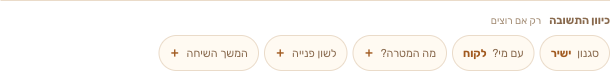
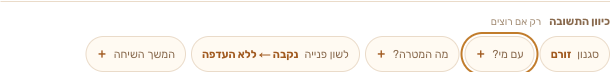
Fit mobile composer in viewport and dismiss direction dialog outside

diff --git a/app/conversation-experience.css b/app/conversation-experience.css
@@ -223,3 +223,35 @@
     grid-template-columns: repeat(4, minmax(0, 1fr));
   }
 }
+
+/* Keep the incoming composer and its action within a small phone viewport. */
+@media (max-width: 639px) {
+  .sb-experience .sb-heading-block { padding: 10px 0 2px; }
+  .sb-experience .sb-heading-block .sb-eyebrow,
+  .sb-experience .sb-heading-description { display: none; }
+  .sb-experience .sb-heading-block h1 { margin: 0; font-size: 28px; line-height: 1.3; letter-spacing: -1px; }
+  .sb-experience .sb-heading-block h1 > span { display: inline; }
+  .sb-experience .sb-compose-panel { padding: 12px; border-radius: 18px; }
+  .sb-experience .sb-compose-mode { padding-bottom: 8px; }
+  .sb-experience .sb-compose-panel > .space-y-4 > :not(:last-child) { margin-block-end: 10px; }
+  .sb-experience .sb-input-zone > :not(:last-child) { margin-block-end: 6px; }
+  .sb-experience .sb-message-input { min-height: 96px; height: 96px; }
+  .sb-experience .sb-inline-examples { gap: 4px; }
+  .sb-experience .sb-inline-examples > span { display: none; }
+  .sb-experience .sb-inline-examples > button { min-height: 36px; padding: 6px 8px; }
+  .sb-experience .sb-direction-tabs button { min-height: 40px; }
+}
+
+@media (max-width: 359px) {
+  .sb-experience .sb-heading-block h1 { font-size: 24px; }
+  .sb-experience .sb-input-zone > :not(:last-child) { margin-block-end: 4px; }
+  .sb-experience .sb-input-zone > .sb-status { font-size: 10px; }
+  .sb-experience .sb-direction-tabs { display: grid; grid-template-columns: repeat(3, minmax(0, 1fr)); gap: 4px; }
+  .sb-experience .sb-direction-tabs button { padding: 4px 6px; gap: 3px; min-width: 0; font-size: 10px; }
+  .sb-experience .sb-direction-step-label { overflow: hidden; text-overflow: ellipsis; white-space: nowrap; }
+  .sb-experience .sb-direction-step-value { max-width: 35px; }
+}
+@media (max-width: 639px) and (max-height: 700px) {
+  .sb-experience .sb-heading-block { display: none; }
+  .sb-experience .sb-compose-panel .sb-inline-examples { display: none; }
+}

diff --git a/components/reply-direction-controls.tsx b/components/reply-direction-controls.tsx
@@ -81,7 +81,11 @@ export function ReplyDirectionControls(props: ReplyDirectionControlsProps) {
           </button>
         ))}
       </div>
-      <dialog ref={dialog} id="reply-direction-panel" className="sb-direction-dialog" aria-label="בחירת כיוון התשובה" onCancel={() => setSelectedField(null)} onClose={() => setSelectedField(null)}>
+      <dialog ref={dialog} id="reply-direction-panel" className="sb-direction-dialog" aria-label="בחירת כיוון התשובה" onClick={(event) => {
+        if (event.target !== event.currentTarget) return;
+        const rect = event.currentTarget.getBoundingClientRect();
+        if (event.clientX < rect.left || event.clientX > rect.right || event.clientY < rect.top || event.clientY > rect.bottom) setSelectedField(null);
+      }} onCancel={() => setSelectedField(null)} onClose={() => setSelectedField(null)}>
         <div className="sb-direction-dialog-top"><span>כיוון התשובה</span><button type="button" onClick={() => setSelectedField(null)} aria-label="סגירת אפשרויות כיוון התשובה">×</button></div>
         <div className="sb-direction-section" data-field={activeField}>
         <DirectionEditor key={activeField} {...props} field={activeField} close={() => setSelectedField(null)} />

diff --git a/README.md b/README.md
@@ -24,7 +24,7 @@ Open one inline editor, choose an option, and keep the selected value in view.
 <table>
   <tr><th width="50%">1. Write and choose a direction</th><th width="50%">2. Compare and refine</th></tr>
   <tr>
-    <td valign="top"><img src="docs/screenshots/reply-directions-mobile.png" alt="Mobile reply direction controls with warm colors and direct tone choices." width="360"></td>
+    <td valign="top"><img src="docs/screenshots/reply-directions-mobile.png" alt="Mobile composer with message input, compact reply directions and generation button visible together." width="360"></td>
     <td valign="top"><img src="docs/screenshots/reply-results-mobile.png" alt="Three synthetic Hebrew reply suggestions with copy, soften, sharpen, and retry controls." width="360"></td>
   </tr>
   <tr><td>No direction is required. Start with the default <strong>זורם</strong> tone and add context only when useful.</td><td>Review the wording and choose what fits. SayBack leaves sending the message to you.</td></tr>
@@ -99,3 +99,5 @@ This runs lint, type checking, regression suites, and a production build. For th
 - [Visual walkthrough and screenshot provenance](docs/walkthrough.md)
 - [Development, configuration, verification, and deployment](docs/development.md)
 - [Visitor insights](docs/visitor-insights.md)
+
+Mobile layout verified at 320×568, 360×740, 375×667 and 390×844 CSS pixels: the incoming message field, direction toolbar and generation action fit in the initial viewport. Direction dialogs close on selection, Escape or a click outside. These checks use browser emulation; an on-screen phone keyboard reduces available space.
